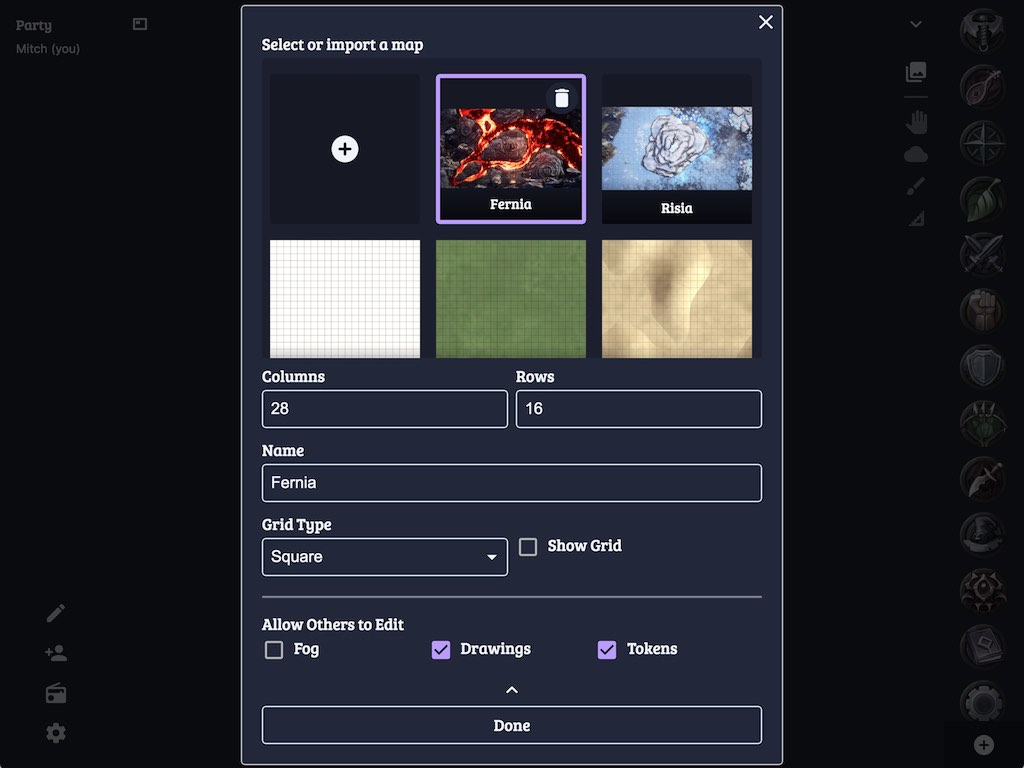
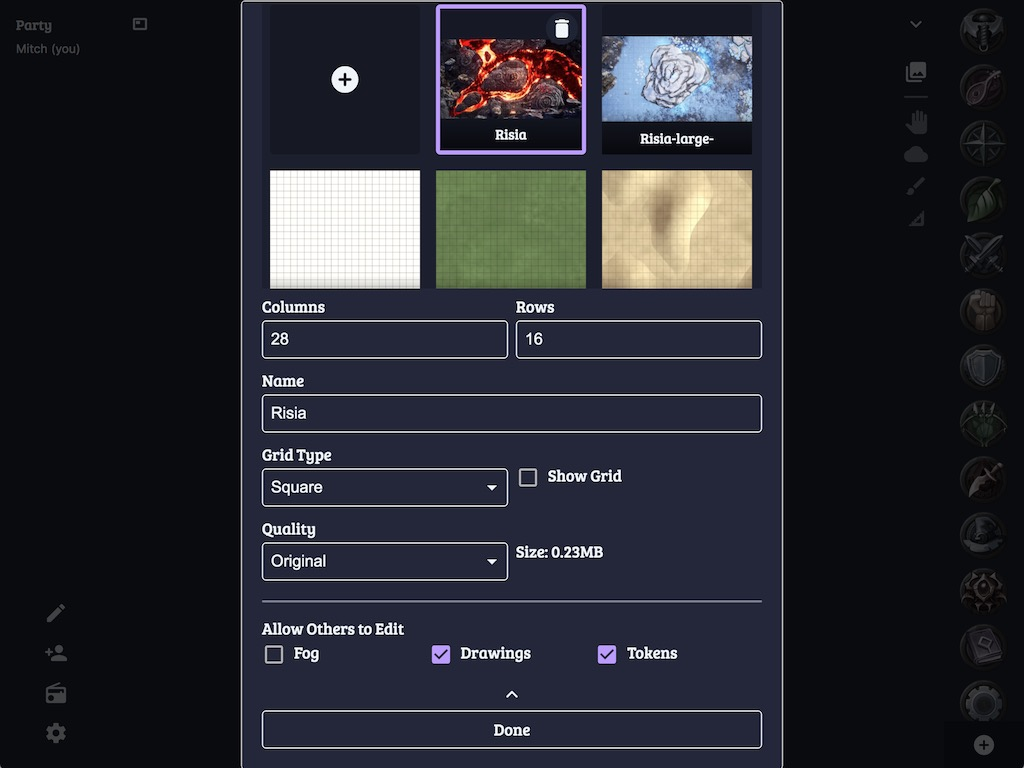
Updated how to for map quality

Changed region(s): [[0.2188, 0.0, 0.7812, 0.875], [0.25, 0.9062, 0.75, 1.0]]

diff --git a/src/docs/howTo/sharingMaps.md b/src/docs/howTo/sharingMaps.md
@@ -24,7 +24,7 @@ To do this there is the Column and Row properties. Columns represents how many g
 
 `Tip: Owlbear Rodeo can automatically fill the Column and Row properties for you if you include them in the file name of the uploaded map. E.g. River [10x15] will create a map named River with 10 columns and 15 rows`
 
-`Note: When uploading a custom map keep the file size in mind. Maps are shared between users in Owlbear Rodeo so if a map is taking too long to load for other party members consider lowering the file size.`
+`Note: When uploading a custom map keep the file size in mind. Maps are shared between users in Owlbear Rodeo so if a map is taking too long to load for other party members consider changing the Quality option in the advanced map settings.`
 
 ## Custom Maps (Advanced)
 
@@ -38,6 +38,7 @@ A brief summary of these settings is listed below.
 - Name: The name of the map shown in the Map Select Screen.
 - Grid Type: Change the type of grid to use for the map. Currently only the Square type is supported however Hex will be added in a future release.
 - Show Grid: When enabled Owlbear Rodeo will draw a grid on top of your map, this is useful if a custom map you have uploaded does't include a grid.
+- Quality: When uploading a map Owlbear Rodeo will automatically generate various quality options, selecting a lower quality may help speed up map sending in resource constrained environments.
 - Allow others to edit: These properties control what other party members can edit when viewing your map.
   - Fog: Controls whether others can edit the maps fog (default disabled).
   - Drawings: Controls whether others can add drawings to the map (default enabled).
